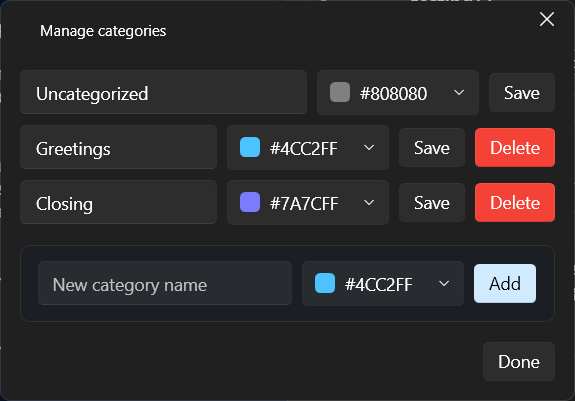
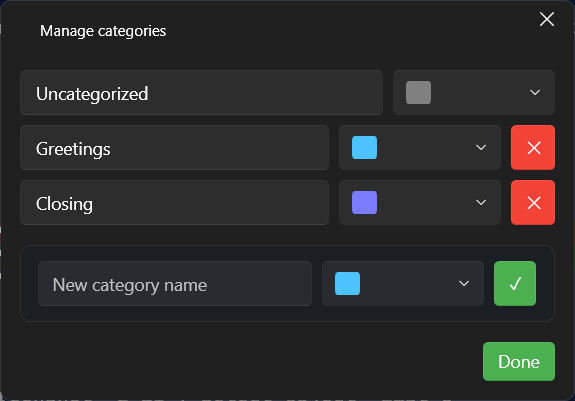
docs: ManageCategoriesDialog rework review note + after-screenshot

diff --git a/docs/design/screenshots/review/manage-categories-rework-review.md b/docs/design/screenshots/review/manage-categories-rework-review.md
@@ -1,0 +1,55 @@
+# ManageCategoriesDialog rework review (owner UX feedback, 2026-07-12)
+
+## What changed
+
+Owner feedback after reviewing Pass 2/4 screenshots, six items in
+`src/AdaVoice.App/ManageCategoriesDialog.xaml` + `.xaml.cs` (commits `25dcd7a`, `c1ac0fd`):
+
+1. Row height consistency — `Height="36"` on the name `TextBox`, color `ComboBox`, and action
+   button(s) in both the per-category row and the add-new-category row.
+2. Delete → icon-only "✕" (`ToolTip="Delete"`), matching `PhraseVersionsDialog.xaml`'s pattern.
+3. Color dropdown (`ColorItemTemplate`) — hex text removed, swatch-only (bumped 16x16→20x20).
+4. Done → `Appearance="Success"` (green).
+5. Per-row "Save" button removed — the name `TextBox`'s `LostFocus` and color `ComboBox`'s
+   `SelectionChanged` now auto-persist via a new `RowField_Committed` code-behind handler,
+   mirroring `SettingsWindow.xaml.cs`'s `DuckSlider_Committed`. `CategoriesViewModel.cs` is
+   untouched — only the view's trigger changed, not the persistence logic.
+6. Add → `Content="✓"`, `Appearance="Success"` (green).
+
+**Process note — my own mistake, caught and fixed:** my task brief incorrectly told the
+implementer that item 4 (Done → green) was "already done" for this file. It wasn't — I'd only
+made that change in `SettingsWindow.xaml` earlier. Caught via the regenerated screenshot
+(Done was still gray), fixed directly in a follow-up commit, and the reviewer verified the
+correction.
+
+## Screenshots used
+
+- Before: `docs/design/screenshots/before/dark/manage-categories.png`
+- After: `docs/design/screenshots/after/manage-categories.png`
+
+Visually confirmed: all three row controls flush at the same height, red ✕ delete buttons,
+swatch-only color dropdowns (no hex), green ✓ add button, green Done button.
+
+## Remaining issues
+
+None blocking. One noted-but-accepted quirk from the reviewer: the color `ComboBox`'s
+`SelectionChanged` fires once on dialog load as its binding initializes, so each existing
+category's `Save` runs once redundantly on open — confirmed idempotent/harmless (same values
+re-written), and adding a guard would be scope creep beyond what was asked.
+
+## Files changed
+
+- `src/AdaVoice.App/ManageCategoriesDialog.xaml`
+- `src/AdaVoice.App/ManageCategoriesDialog.xaml.cs`
+- (commits `25dcd7a`, `c1ac0fd`)
+
+## Build/test result
+
+- `dotnet build AdaVoice.slnx` — 0 warnings, 0 errors.
+- `dotnet test AdaVoice.slnx` (full suite, excl. interactive screenshot tests) — all green
+  (App: 238/238, unchanged — no ViewModel touched).
+- Screenshot regeneration — passed, visually confirmed above.
+
+## Ready for human review
+
+Yes.
